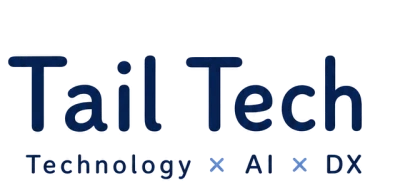
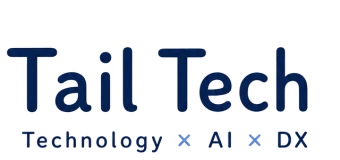
画像最適化: 全imgにwidth/height追加・case/profile画像リサイズ

diff --git a/index.html b/index.html
@@ -138,7 +138,7 @@
   <header class="site-header">
     <div class="header-inner">
       <a class="brand" href="#top" aria-label="Tail Tech トップへ">
-        <img class="brand-word-image" src="images/tail-tech-word-a-transparent.webp" alt="Tail Tech Technology × AI × DX">
+        <img class="brand-word-image" src="images/tail-tech-word-a-transparent.webp" alt="Tail Tech Technology × AI × DX" width="340" height="160">
       </a>
       <nav class="nav" aria-label="メインナビゲーション">
         <a href="#services">サービス</a>
@@ -211,7 +211,7 @@
           </div>
           <div class="device-phone" aria-label="Smartphone showing AI pet image generation">
             <div class="phone-screen">
-              <img src="images/dog-event-hiyori.webp" alt="わんこイベント日和のスマホ画面">
+              <img src="images/dog-event-hiyori.webp" alt="わんこイベント日和のスマホ画面" width="300" height="622">
             </div>
           </div>
           <div class="floating-badge">
@@ -239,7 +239,7 @@
             </span>
             <h3>AI体験コンテンツ</h3>
             <p class="service-sub">集客・体験価値を向上</p>
-            <div class="service-visual"><img src="images/dog-event-service-generated-thumb.webp" alt="わんこイベント日和の生成画像サンプル画面" loading="lazy"></div>
+            <div class="service-visual"><img src="images/dog-event-service-generated-thumb.webp" alt="わんこイベント日和の生成画像サンプル画面" width="900" height="489" loading="lazy"></div>
             <ul class="service-list">
               <li>AI画像生成・イベントフォト</li>
               <li>QRコード連携・簡単アップロード</li>
@@ -255,7 +255,7 @@
             </span>
             <h3 class="is-long-title">AIドキュメント検索<br>システム</h3>
             <p class="service-sub">社内資料をAIで検索・活用</p>
-            <div class="service-visual"><img src="images/service_ai_search_knowledge_thumb.webp" alt="AIドキュメント検索システムの画面" loading="lazy"></div>
+            <div class="service-visual"><img src="images/service_ai_search_knowledge_thumb.webp" alt="AIドキュメント検索システムの画面" width="900" height="490" loading="lazy"></div>
             <ul class="service-list">
               <li class="is-nowrap">社内規定・マニュアル・資料を事前学習</li>
               <li>自然な文章でかんたん検索</li>
@@ -266,7 +266,7 @@
           <a class="card service-card" href="#contact" aria-label="業務効率化・DX支援について問い合わせる">
             <h3>業務効率化・業務改善・DX支援</h3>
             <p class="service-sub">現場に合う小規模DX</p>
-            <div class="service-visual"><img src="images/service_dx_highres.webp" alt="LINE自動化と業務効率化の画面" loading="lazy"></div>
+            <div class="service-visual"><img src="images/service_dx_highres.webp" alt="LINE自動化と業務効率化の画面" width="900" height="507" loading="lazy"></div>
             <ul class="service-list">
               <li>LINE自動化・予約リマインド</li>
               <li>AI活用・データ整理・業務自動化</li>
@@ -277,7 +277,7 @@
           <a class="card service-card" href="#contact" aria-label="システム提案・開発について問い合わせる">
             <h3>システム提案・開発</h3>
             <p class="service-sub">業務に合わせて構築</p>
-            <div class="service-visual"><img src="images/service_system_dev_highres.webp" alt="Webシステム開発のコード画面" loading="lazy"></div>
+            <div class="service-visual"><img src="images/service_system_dev_highres.webp" alt="Webシステム開発のコード画面" width="900" height="507" loading="lazy"></div>
             <ul class="service-list">
               <li>Webシステム・業務システム開発</li>
               <li>クラウド構築・インフラ設計</li>
@@ -312,7 +312,7 @@
               <p>データを整理・可視化し意思決定をサポート</p>
             </article>
             <article class="value-card is-text-aligned">
-              <img class="icon-img" src="images/cost-navy-final-thick.webp" alt="" aria-hidden="true" loading="lazy">
+              <img class="icon-img" src="images/cost-navy-final-thick.webp" alt="" aria-hidden="true" width="172" height="172" loading="lazy">
               <h3>コストを最適化</h3>
               <p>必要な仕組みを最適な形で<br>導入・運用</p>
             </article>
@@ -334,28 +334,28 @@
         </div>
         <div class="cases-grid">
           <article class="card case-card">
-            <img class="is-contain" src="images/case_pet_ai_event_photo.webp" alt="ペットサロン向けAIイベントフォト" loading="lazy">
+            <img class="is-contain" src="images/case_pet_ai_event_photo.webp" alt="ペットサロン向けAIイベントフォト" width="1000" height="649" loading="lazy">
             <div class="case-body">
               <h3>AIイベントフォト（ペットサロン）</h3>
               <p>QRからAIイベント画像を生成。SNS投稿・LINE連携で集客に貢献。</p>
             </div>
           </article>
           <article class="card case-card">
-            <img src="images/case_ai_search_highres.webp" alt="AIドキュメント検索の画面" loading="lazy">
+            <img src="images/case_ai_search_highres.webp" alt="AIドキュメント検索の画面" width="1000" height="460" loading="lazy">
             <div class="case-body">
               <h3>AIドキュメント検索</h3>
               <p>社内規定やマニュアルを自然文で検索し、問い合わせ時間を削減。</p>
             </div>
           </article>
           <article class="card case-card">
-            <img src="images/case_line_highres.webp" alt="LINE自動化の活用例" loading="lazy">
+            <img src="images/case_line_highres.webp" alt="LINE自動化の活用例" width="1000" height="563" loading="lazy">
             <div class="case-body">
               <h3>LINE自動化（サービス業）</h3>
               <p>予約リマインドやキャンペーン配信を自動化し、対応工数を削減。</p>
             </div>
           </article>
           <article class="card case-card">
-            <img src="images/case_system_highres.webp" alt="小売業向け業務システム" loading="lazy">
+            <img src="images/case_system_highres.webp" alt="小売業向け業務システム" width="1000" height="563" loading="lazy">
             <div class="case-body">
               <h3>業務システム開発（小売業）</h3>
               <p>受発注・在庫・顧客管理を一元化し、データ活用を推進。</p>
@@ -435,7 +435,7 @@
             <p class="profile-text">大手メーカー系企業でシステムエンジニアとして経験を積んだ後、フリーランスとして独立。金融・官公庁向けシステムを中心に、安定性や信頼性が求められるインフラ・システム基盤領域に携わってきました。現在は、AI活用・業務効率化・インフラ支援を通じて、中小企業や店舗のDX推進をサポートしています。</p>
           </div>
           <div class="profile-photo">
-            <img src="images/profile-temp-selected.webp" alt="Tail Tech 代表 小西直樹のワークスペース" loading="lazy">
+            <img src="images/profile-temp-selected.webp" alt="Tail Tech 代表 小西直樹のワークスペース" width="700" height="525" loading="lazy">
           </div>
         </article>
       </div>
@@ -467,7 +467,7 @@
     <div class="container footer-inner">
       <div class="footer-brand">
         <div>
-          <img class="footer-word-image" src="images/tail-tech-word-a-transparent.webp" alt="Tail Tech Technology × AI × DX" loading="lazy">
+          <img class="footer-word-image" src="images/tail-tech-word-a-transparent.webp" alt="Tail Tech Technology × AI × DX" width="340" height="160" loading="lazy">
           <div class="footer-sub">店舗・企業向け AI / システム活用支援</div>
         </div>
       </div>
